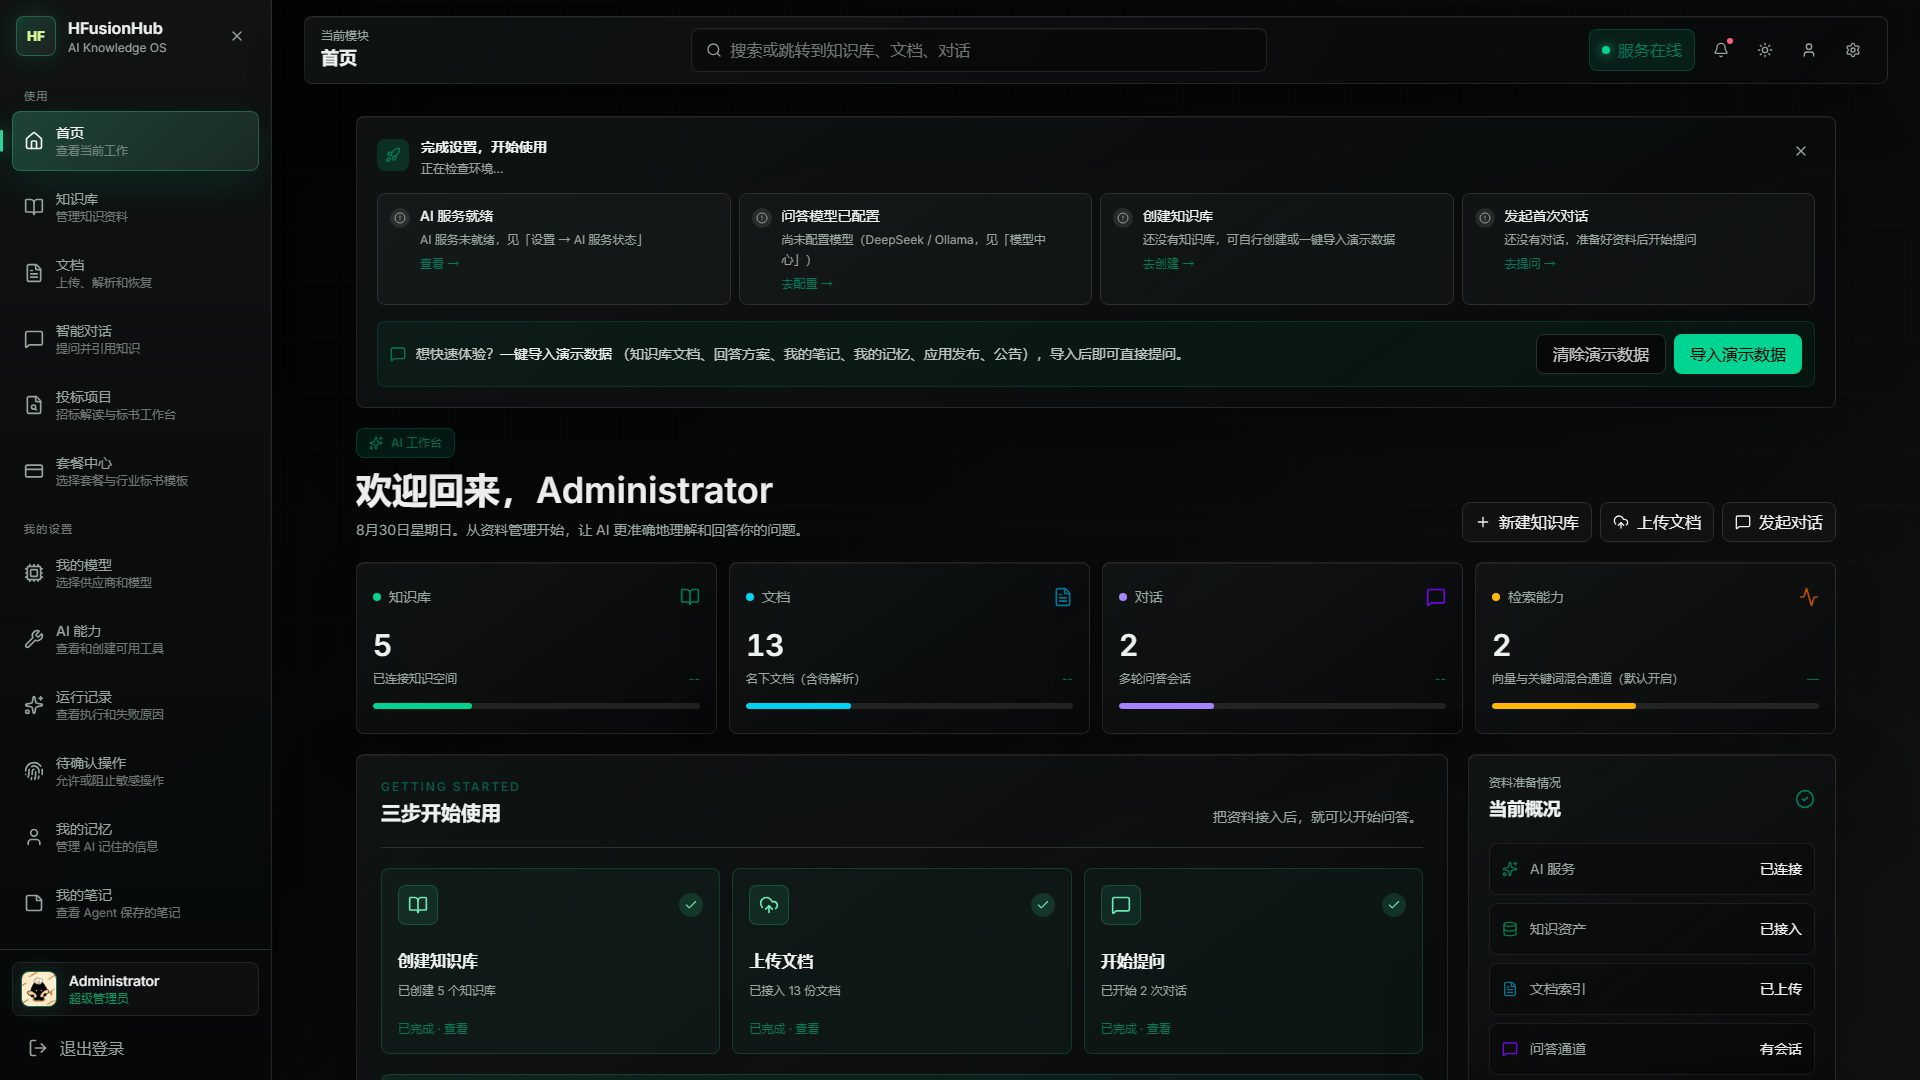
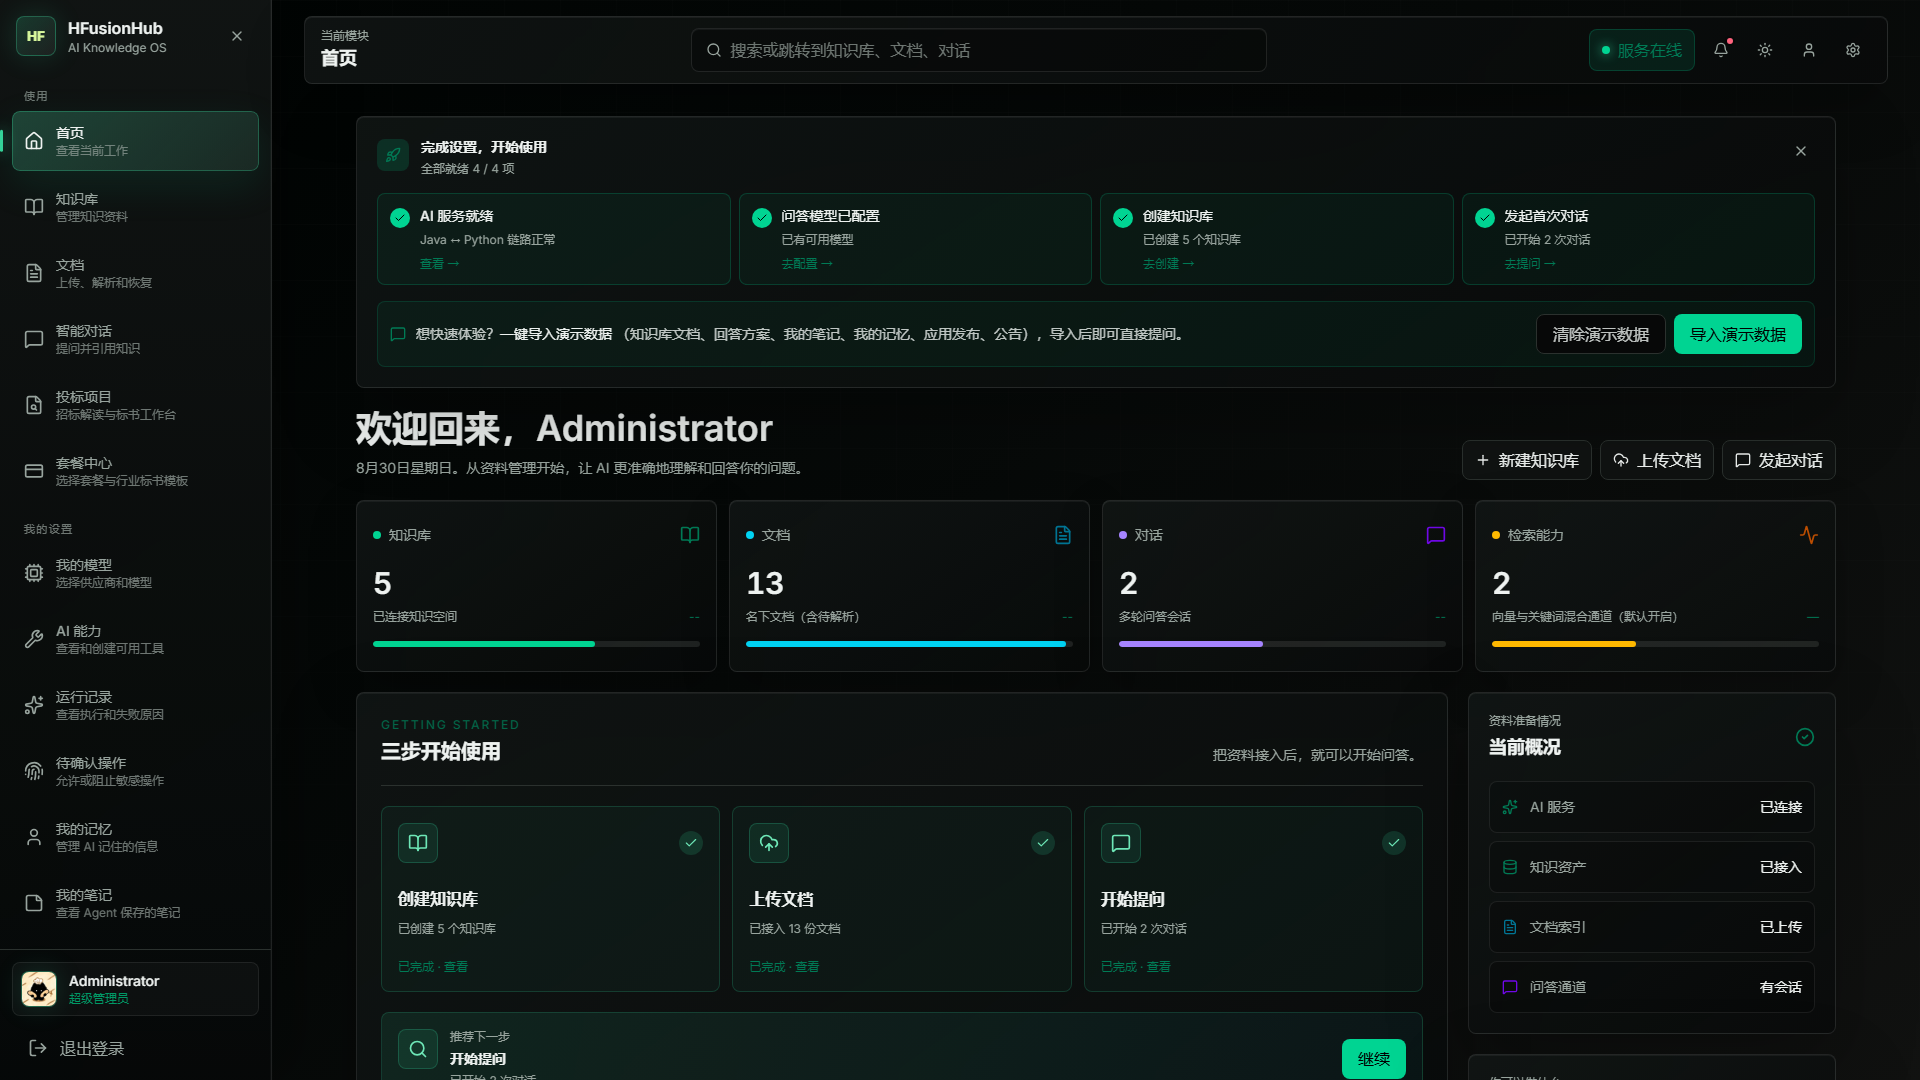
首页：删除装饰徽章；引导清单完成后不再隐藏（修复演示数据入口消失）

diff --git a/hfusionhub-frontend/src/components/setup/SetupChecklist.vue b/hfusionhub-frontend/src/components/setup/SetupChecklist.vue
@@ -30,8 +30,9 @@ const convCount = ref(0)
 const importing = ref(false)
 const clearing = ref(false)
 const lastSections = ref<DemoSectionResult[]>([])
-// 收起只对当前页面生效，刷新/下次进入自动恢复显示；
-// 全部完成后才由 allDone 永久隐藏——避免误点 × 后再也找不回
+// 收起只对当前页面生效，刷新/下次进入自动恢复显示。
+// 全部完成（allDone）不再隐藏：引导清单内有「导入/清除演示数据」的唯一入口，
+// 隐藏会导致完成引导后再也无法导入演示数据（2026-08-30 用户反馈）
 const dismissed = ref(false)
 
 const modelReady = computed(() => {
@@ -82,7 +83,7 @@ const items = computed(() => {
 
 const doneCount = computed(() => items.value.filter((item) => item.done).length)
 const allDone = computed(() => items.value.length > 0 && items.value.every((item) => item.done))
-const show = computed(() => !dismissed.value && !allDone.value)
+const show = computed(() => !dismissed.value)
 
 const refresh = async () => {
   loading.value = true
@@ -151,7 +152,7 @@ onMounted(refresh)
 </script>
 
 <template>
-  <div v-if="!show && !allDone" class="mb-1 flex justify-end">
+  <div v-if="!show" class="mb-1 flex justify-end">
     <button
       type="button"
       class="inline-flex items-center gap-1.5 rounded-md px-2 py-1 text-xs text-muted-foreground transition-colors hover:bg-muted/60 hover:text-foreground"
@@ -171,7 +172,7 @@ onMounted(refresh)
         <div>
           <p class="text-sm font-semibold text-foreground">完成设置，开始使用</p>
           <p class="mt-1 text-xs text-muted-foreground">
-            {{ loading ? '正在检查环境…' : `已完成 ${doneCount} / ${items.length} 项` }}
+            {{ loading ? '正在检查环境…' : allDone ? `全部就绪 ${doneCount} / ${items.length} 项` : `已完成 ${doneCount} / ${items.length} 项` }}
           </p>
         </div>
       </div>

diff --git a/hfusionhub-frontend/src/pages/dashboard/Index.vue b/hfusionhub-frontend/src/pages/dashboard/Index.vue
@@ -205,10 +205,6 @@ onMounted(async () => {
 
     <section class="flex flex-col gap-4 lg:flex-row lg:items-end lg:justify-between">
       <div class="min-w-0">
-        <div class="mb-3 inline-flex items-center gap-2 rounded-lg border border-emerald-400/20 bg-emerald-400/10 px-3 py-1.5 text-xs font-medium text-emerald-700 dark:text-emerald-300">
-          <Sparkles class="h-3.5 w-3.5" />
-          AI 工作台
-        </div>
         <h2 class="text-3xl font-semibold text-foreground sm:text-4xl">欢迎回来，{{ userName }}</h2>
         <p class="mt-2 max-w-2xl text-sm leading-6 text-muted-foreground">
           {{ todayLabel }}。从资料管理开始，让 AI 更准确地理解和回答你的问题。
